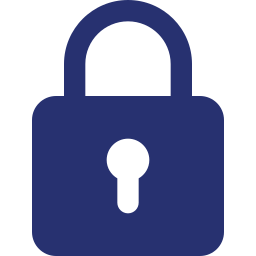
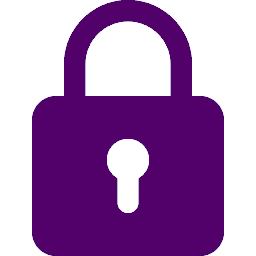
Zmieniaja sie ikonki zaleznie od theme w LoginPage ✅

diff --git a/Pages/LoginPage.xaml b/Pages/LoginPage.xaml
@@ -1,7 +1,7 @@
 <?xml version="1.0" encoding="utf-8" ?>
 <ContentPage xmlns="http://schemas.microsoft.com/dotnet/2021/maui"
              xmlns:x="http://schemas.microsoft.com/winfx/2009/xaml"
-             x:Class="loginAppAS.LoginPage "
+             x:Class="loginAppAS.LoginPage"
              Shell.NavBarIsVisible="False"
              xmlns:handless="clr-namespace:loginAppAS.Handlers"
              Title="Zaloguj się">
@@ -27,22 +27,21 @@
 
         <Frame CornerRadius="0" BackgroundColor="{x:AppThemeBinding Light={StaticResource DashboardBackgroundLight}, Dark={StaticResource DashboardBackgroundDark}}"
                Grid.Row="1" VerticalOptions="CenterAndExpand"
-               Margin="0,0,40,0"
-               >
+               Margin="0,0,40,0">
             <ScrollView>
                 <VerticalStackLayout Spacing="25">
                     <Label Text="Zaloguj się" FontSize="28" FontAttributes="Bold" />
 
                     <Frame Padding="10" BorderColor="Transparent" CornerRadius="0">
                         <Grid ColumnDefinitions="25,*" ColumnSpacing="10">
-                            <Image VerticalOptions="Center" x:Name="emailImage" Source="email_light.png" HeightRequest="25" WidthRequest="25" />
+                            <Image VerticalOptions="Center" x:Name="emailImage" Source="{x:AppThemeBinding Light=email_light.png, Dark=email_dark.png}" HeightRequest="25" WidthRequest="25" />
                             <handless:BorderlessEntry x:Name="emailEntry" VerticalOptions="Center" Placeholder="Email" Grid.Column="1" />
                         </Grid>
                     </Frame>
 
                     <Frame Padding="10" BorderColor="Transparent" CornerRadius="0">
                         <Grid ColumnDefinitions="25,*" ColumnSpacing="10">
-                            <Image VerticalOptions="Center" Source="password.png" HeightRequest="25" WidthRequest="25" />
+                            <Image VerticalOptions="Center" x:Name="passwordImage" Source="{x:AppThemeBinding Light=password_light.png, Dark=password_dark.png}" HeightRequest="25" WidthRequest="25" />
                             <handless:BorderlessEntry x:Name="passwordEntry" VerticalOptions="Center" Placeholder="Password" IsPassword="True" Grid.Column="1" />
                         </Grid>
                     </Frame>
